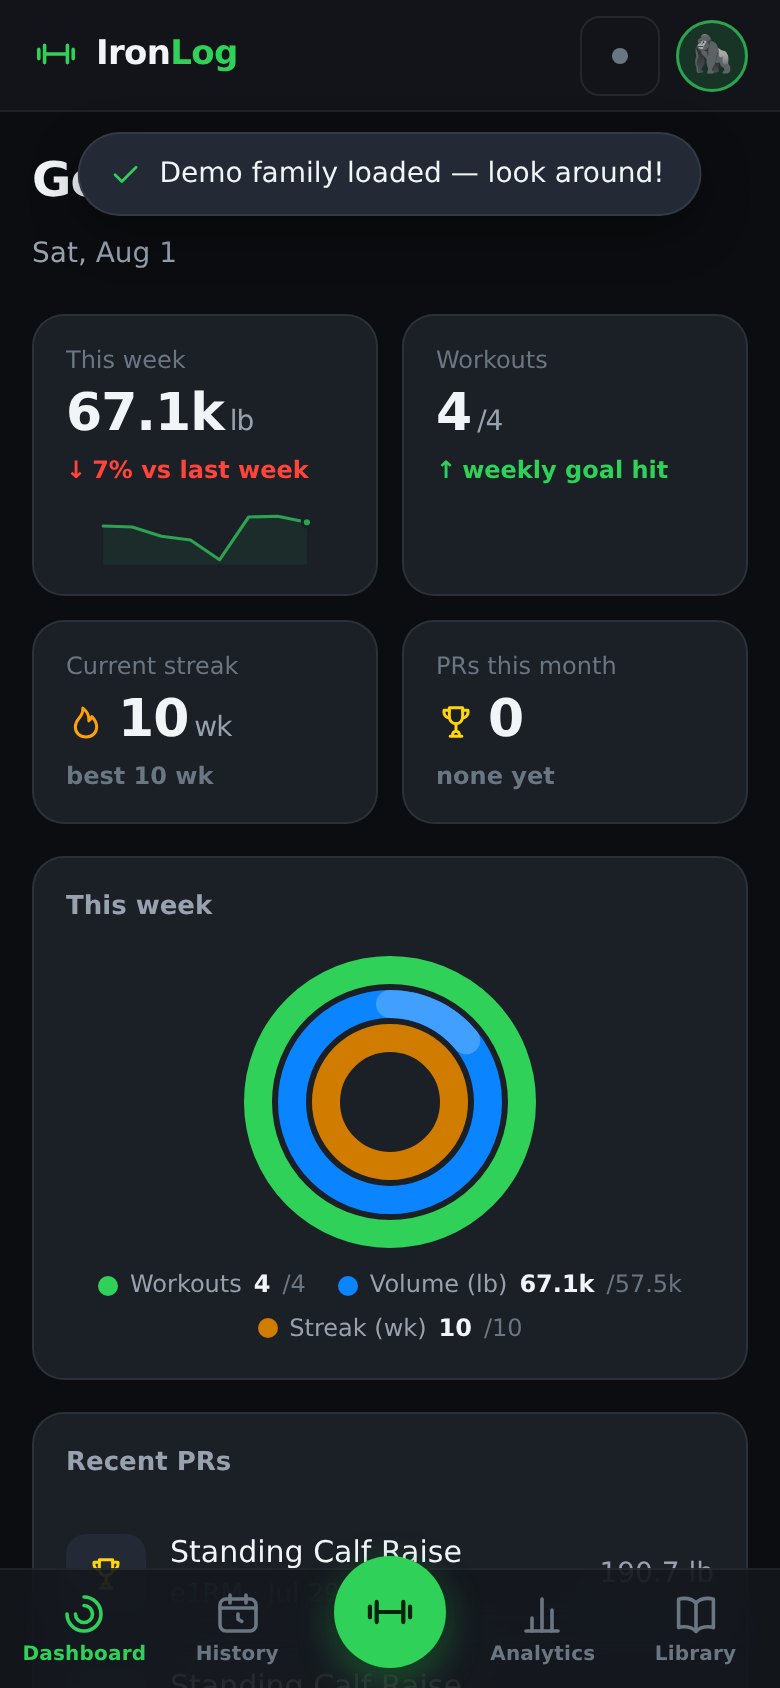
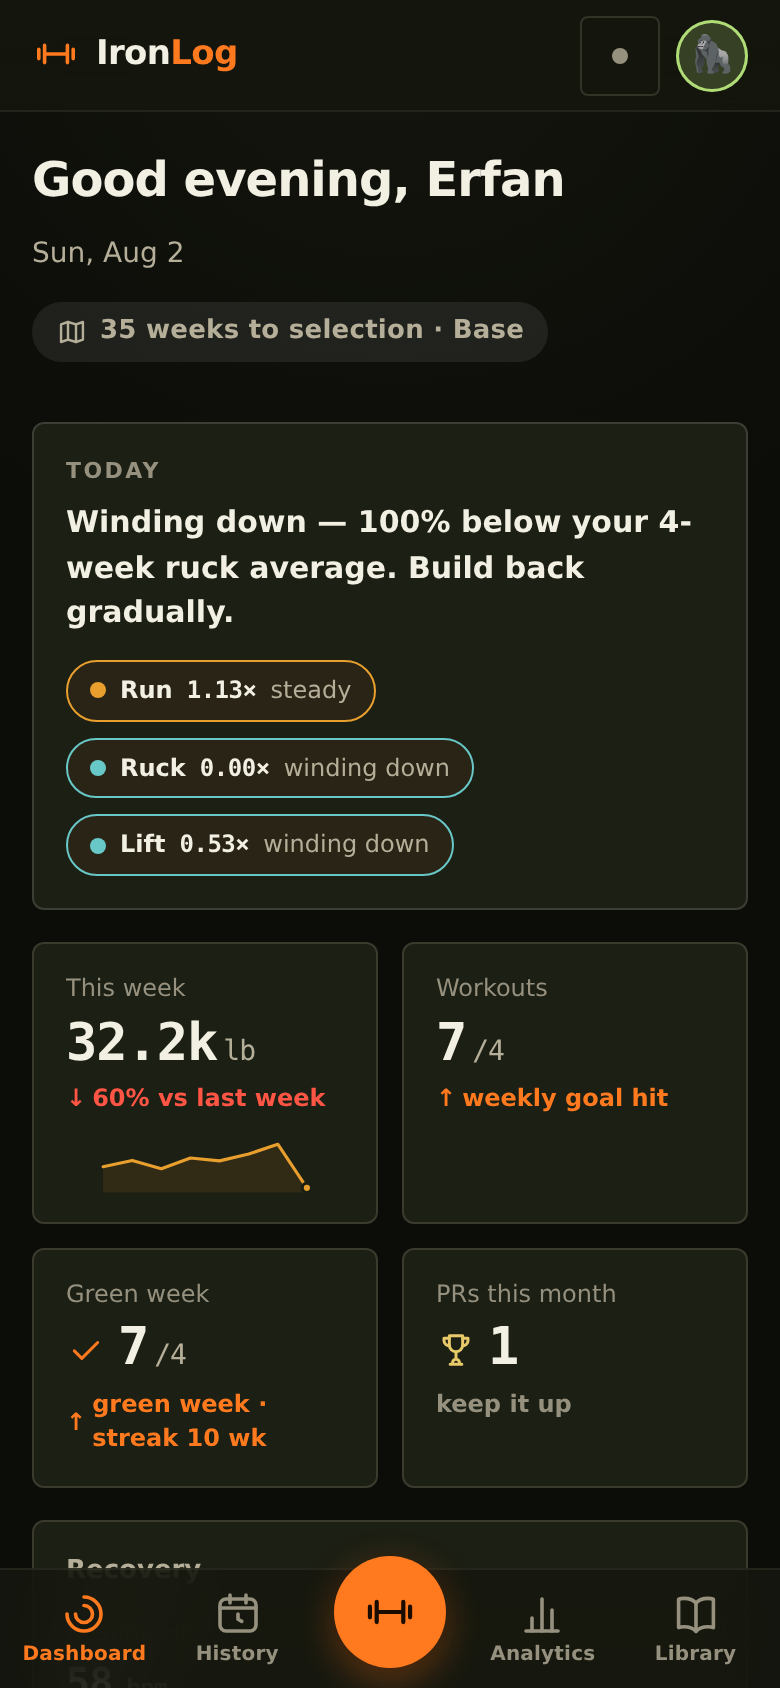
IronLog: bring the README up to what actually shipped (#15)
The README still described the app that existed before P1 — a family lifting
tracker with 250-odd exercises. It named none of the two-mode split, cardio and
rucking, structured set work, the live session, injury guardrails, the load
model, selection standards, per-profile themes, the AI coach, or the update
prompt. Anyone opening the repo got a wrong picture, and so would Erfan in six
months.

Rewritten to describe the real app, including the parts that are easy to get
wrong and expensive to get wrong: that the mode split is enforced rather than
decorative, that the coach proposes but cannot log or override a guardrail,
that its API key is deliberately stored outside the synced state because
backups and family sync both carry that state and this repo is public, and
that a mixed-version family fleet is safe by construction.

Screenshots regenerated against the current build — the committed ones were
from the pre-P5 look and showed an app that no longer exists. Added Standards
and Coach; the exercise count is now the real 317.

Claude-Session: https://claude.ai/code/session_01NDUPU25TLVQAjCUoJTnJK4

diff --git a/gym/README.md b/gym/README.md
@@ -1,11 +1,24 @@
-# IronLog 🏋 — Family Gym Tracker
+# IronLog 🏋 — training log for a family, built around one hard goal
 
-A complete, multi-user gym logging web app for you and your family — a cross between
-**Fitbod** (fast logging, muscle recovery, templates), **Apple Health** (rings,
-trends, body metrics), and **ExRx.net** (a 250+ exercise encyclopedia).
+A multi-user training app that starts as a straightforward gym log and, when you
+ask it to, turns into a selection-prep system: cardio, rucking, durability,
+flexibility, injury guardrails, military standards, and a coach that has read
+every session you have ever logged.
 
 Pure static HTML/CSS/JS. No accounts, no server, no build step, no dependencies.
-Works offline once loaded (PWA) and installs to your home screen.
+Works offline once loaded, installs to your home screen.
+
+## Two modes, on purpose
+
+**Simple mode** is the whole app for someone who just lifts: log sets, see your
+history, watch your numbers go up. Nothing else appears.
+
+**Performance mode** (Settings → Training) unlocks everything below. It exists so
+one person can chase a Green Beret while another logs bench press on the same
+codebase, and neither has to see the other's app.
+
+This split is enforced everywhere, not decorated. A simple-mode profile never
+renders a performance surface — there are tests whose whole job is to prove it.
 
 ## Screenshots
 
@@ -13,32 +26,106 @@ Works offline once loaded (PWA) and installs to your home screen.
 |---|---|---|
 | ![Dashboard](screenshots/dashboard.png) | ![Logging](screenshots/logging.png) | ![Analytics](screenshots/analytics.png) |
 
-| Family leaderboard | Exercise library | On mobile |
+| Standards | AI coach | Family leaderboard |
 |---|---|---|
-| ![Family](screenshots/family.png) | ![Exercise detail](screenshots/exercise-detail.png) | ![Mobile](screenshots/mobile-dashboard.png) |
+| ![Standards](screenshots/standards.png) | ![Coach](screenshots/coach.png) | ![Family](screenshots/family.png) |
 
-## Features
+| Exercise detail | Library on mobile | Dashboard on mobile |
+|---|---|---|
+| ![Exercise detail](screenshots/exercise-detail.png) | ![Library](screenshots/mobile-library.png) | ![Mobile](screenshots/mobile-dashboard.png) |
 
-- 👥 **Profiles** — unlimited family members, each with their own units (lb/kg),
-  goals, and identity color. One-tap switching. Friendly weekly leaderboard.
-- 🏋 **Logging** — fast set/rep/weight entry with previous-performance hints,
-  warmup sets, RPE, auto rest timer, plate calculator, templates, notes, full
-  editable history.
-- 📖 **Exercise library** — 250+ exercises with muscles, equipment, instructions
-  and coaching tips, searchable and filterable; add your own custom exercises.
-- 📊 **Analytics** — estimated 1RM progression, automatic PR detection, weekly
-  volume and per-muscle set counts vs. targets, an interactive front/back muscle
-  heatmap, training calendar, streaks, rep-range split, muscle recovery status and
-  suggested next workout, body weight/body-fat trends.
-- 🍎 **Apple Health** — import your `export.zip` right in the browser (body
-  weight, resting heart rate, steps, active energy, exercise minutes, VO₂max,
-  sleep, workouts). Export your lifting history as CSV, full data as JSON backup.
-- ☁ **Optional family sync** — paste a free Firebase Realtime Database URL in
-  Settings and everyone's data merges across devices automatically.
+## What it does
+
+### Logging — every kind of training, not just lifting
+
+- **Lifting** — fast set/rep/weight entry with previous-performance hints, warmup
+  sets, RPE, rest timer, plate calculator, routines, notes, fully editable history.
+- **Cardio** — run, ruck, swim, bike, row, stairs, walk, circuit. Rucks record dry
+  and total load, surface, footwear and elevation, because those are what break
+  feet.
+- **Structured set work** — holds, carries, stretches and unilateral work are
+  logged as real sets with reps, hold seconds, distance, load, side, and a 1–4
+  stretch-depth scale. Not "20 minutes of mobility".
+- **Tests** — ACFT events, timed runs, the 12-mile ruck, max pull-ups, dead hang,
+  plank, 500 m swim.
+- **317 exercises** with muscles, equipment, instructions and coaching tips, plus
+  your own custom ones.
+
+### The live session
+
+Start a session and do it — the app follows along instead of being filled in
+afterwards. Pace is a **layer**, not a mode: the timer can drive a set, an
+exercise, or the whole session, or nothing at all, and you can change it mid-
+workout. Durability and stretching default to per-set pacing because they want
+room to tinker; circuits drive the whole session because they are time-sensitive.
+
+You can edit anything while it runs. A prescription you never performed is never
+recorded as work you did.
+
+### Knowing whether you are training or digging a hole
+
+- **Injury guardrails** — ruck load-and-distance double increases, run ramp rate,
+  easy/hard split, rest days, deep-stretch limits, and a pain log that escalates
+  bone-line pain, morning pain and pain that climbs during a session.
+- **Load model** — acute:chronic workload per modality, with an honest "not
+  enough history yet" instead of a fabricated ratio in your first week.
+- **Recovery** — per-muscle freshness, resting-HR baseline and spikes, ruck
+  economy trend.
+- **Standards** — where you stand against SFAS and ACFT two-tier targets, scored
+  by the real tables, with a training phase derived from your selection date.
+
+### The AI coach (optional)
+
+Bring your own Anthropic API key (Settings → AI Coach) and a Coach tab appears.
+It reads **everything** — every session, the pain log, the journal, and the
+figures the app itself computed — and it:
+
+- answers questions about your training, citing actual dates and sessions
+- **proposes sessions you can edit**: tick items on or off, change any number,
+  then start it as a normal guided session
+- **asks you questions** ("how did that last set of hangs feel in the elbows?").
+  Your answer is saved to your journal, and it is in the context next time. That
+  loop is the point.
+
+Two things it cannot do: it cannot log anything (it proposes, you commit), and it
+cannot talk its way past your injury guardrails. Those are checked by the app
+after the reply arrives, twice — once before you see a proposal and again when
+you accept it. There is no override button anywhere.
+
+**Your key never leaves your device.** It is stored outside the synced state on
+purpose: backups and family sync both carry that state, and this repository is
+public. Each device keeps its own key. Requests are billed to you; the Coach
+screen shows a running cost estimate and what prompt caching saved.
+
+### Family
+
+Unlimited profiles, one-tap switching, a friendly weekly leaderboard, and
+per-profile colour themes (Field / Issued, Classic Green, Slate, Ember) so each
+person's app looks like theirs. Themes change colour only — never layout — and
+every palette is validated for colourblind-safe chart series and contrast.
+
+### Apple Health
+
+Import your `export.zip` in the browser: body weight and body fat, steps, resting
+heart rate, active energy, exercise minutes, VO₂max, sleep, and workouts. Parsed
+locally, previewed before anything is added, nothing uploaded. Walks import as
+walks — not as runs, which would quietly inflate your mileage and your injury
+guardrails with it.
+
+Export lifting history as CSV or everything as a JSON backup.
+
+*Live HealthKit sync is impossible for any pure web app — Apple exposes it to
+native iOS apps only. The export/import loop is the standard approach.*
+
+## Updates
+
+The app tells you when a new version is ready and waits for you to take it. It
+checks whenever you bring the app to the foreground. If you tap **Later** it will
+ask again next time rather than stranding you on an old build.
 
 ## Run it
 
-It's a static site — any web server works:
+Static site — any web server works:
 
 ```bash
 cd gym
@@ -46,70 +133,53 @@ python3 -m http.server 8000
 # open http://localhost:8000
 ```
 
-### Deploy on GitHub Pages
-
-This repo already serves GitHub Pages. Once this branch is merged, the app is live at:
-
-```
-https://<your-pages-domain>/gym/
-```
-
-Then on each phone: open the URL in Safari/Chrome → Share → **Add to Home Screen**.
-It launches full-screen like a native app and works offline.
+Live at `https://<your-pages-domain>/gym/`. On each phone: open the URL → Share →
+**Add to Home Screen**. It launches full-screen and works offline.
 
 ## Where your data lives
 
-All data is stored **on the device, in the browser** (localStorage). Nothing is
-uploaded anywhere unless you enable sync. Two ways to share between devices:
+On the device, in the browser (localStorage). Nothing is uploaded unless you
+enable sync. Two ways to share between devices:
 
-1. **Backup files** — Settings → Data → Export backup, send the file, Import on the
+1. **Backup files** — Settings → Data → Export backup, send it, Import on the
    other device (choose *Merge*).
-2. **Family sync (recommended)** — see below. Everyone sees everyone's workouts,
-   the leaderboard works across devices, and each person keeps editing under their
-   own profile.
+2. **Family sync** — below.
 
-> Tip: don't clear the browser's site data for the app's domain without exporting
-> a backup first — that's where your log lives.
+> Export a backup before clearing site data for this domain. That is where your
+> log lives.
 
 ## Family sync setup (free, ~5 minutes, one person does it once)
 
-1. Go to <https://console.firebase.google.com> → **Add project** (any name, no
-   Analytics needed).
-2. In the left menu: **Build → Realtime Database → Create database** → pick a
-   location → start in **test mode**.
+1. <https://console.firebase.google.com> → **Add project** (any name, no Analytics).
+2. **Build → Realtime Database → Create database** → pick a location → start in
+   **test mode**.
 3. Copy the database URL, e.g. `https://yourname-default-rtdb.firebaseio.com`.
-4. Add a long random path segment to keep the data private, e.g.
+4. Append a long random path segment to keep it private, e.g.
    `https://yourname-default-rtdb.firebaseio.com/ironlog-k92hf83hf`.
-5. In IronLog: **Settings → Family Sync** → paste that URL → Enable → Sync now.
-6. Send the same URL to your family; they paste it on their devices. Done.
+5. IronLog: **Settings → Family Sync** → paste → Enable → Sync now.
+6. Send the same URL to your family; they paste it on their devices.
 
-*Note: test-mode rules mean anyone who knows the exact URL can read/write it —
-the long random segment is the secret. For a small family log that's a reasonable
-trade; rotate the segment if it ever leaks (change the path and re-sync).*
+*Test-mode rules mean anyone with the exact URL can read and write it — the long
+random segment is the secret. Reasonable for a small family log; rotate the
+segment if it ever leaks.*
 
-## Apple Health
-
-**Import:** iPhone → Health app → your profile picture (top right) → **Export All
-Health Data** → wait, then AirDrop/save the `export.zip` → in IronLog: Settings →
-Apple Health → Import → pick the zip. The app parses it locally in your browser —
-nothing is uploaded — and previews what it found before adding anything.
-
-**What imports:** body weight & body fat (into Body trends), daily steps, resting
-heart rate, active energy, exercise minutes, VO₂max, sleep; strength-type Apple
-workouts appear in your history on days you didn't log manually.
-
-**Export:** Settings → Apple Health → Export CSV (one row per set), or a full JSON
-backup of everything.
-
-*Live HealthKit sync isn't possible for any pure web app — Apple only exposes it
-to native iOS apps. The export/import loop above is the standard approach.*
+**Mixed versions are safe.** A phone running an older build merges with a newer
+one without destroying data it does not understand: unknown collections, unknown
+fields and unknown settings all round-trip untouched. This is a load-bearing
+property with tests against the real older code, not a hope.
 
 ## Tech notes
 
-- Plain script modules on `window` (`Store`, `Analytics`, `Charts`, `ExerciseDB`,
-  `MuscleMap`, `AppleHealth`, `Sync`, `App`) — see `ARCHITECTURE.md`.
-- All weights stored in kg internally; converted at the UI per user's units.
-- Hand-rolled responsive SVG charts (validated colorblind-safe series palette).
-- Apple Health zip is unpacked in-browser (tiny ZIP reader + `DecompressionStream`);
-  the XML is stream-parsed so 100 MB+ exports don't crash the tab.
+- Plain script modules on `window` (`Store`, `Analytics`, `LoadModel`,
+  `Guardrails`, `Protocols`, `Charts`, `MuscleMap`, `ExerciseDB`, `AppleHealth`,
+  `Player`, `Coach`, `App`) — see `ARCHITECTURE.md`, which is the binding
+  contract and explains *why*, not just what.
+- All weights stored in kg internally, converted at the UI per profile.
+- Hand-rolled responsive SVG charts. No colour is ever frozen in JavaScript — it
+  is read from CSS custom properties at render time, which is what lets themes
+  work at all.
+- Apple Health zip unpacked in-browser (tiny ZIP reader + `DecompressionStream`),
+  XML stream-parsed so 100 MB+ exports do not crash the tab.
+- Coach calls `api.anthropic.com` directly from the device with prompt caching on
+  the large stable context block, and streams the reply.
 - Service worker caches the app shell for offline use.
